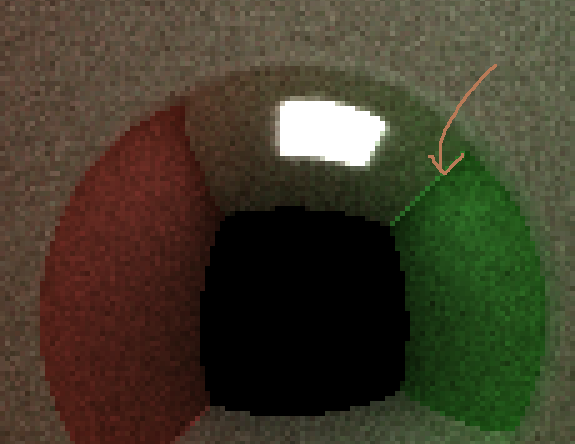
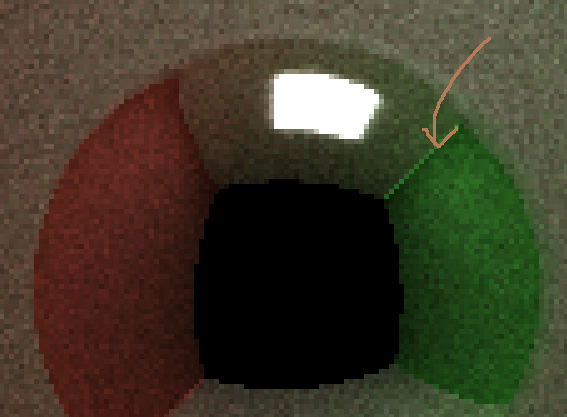
update readme.

diff --git a/README.md b/README.md
@@ -64,6 +64,16 @@ No Light Depth 0                    |  No Light Depth 8               | No Light
 :-------------------------:|:-------------------------:|:-------------------------:
 ![](data/no_light_depth_0.png)| 		![](data/no_light_depth_8.png) 	|![](data/no_light_depth_15.png)
 
+## Anti-Aliasing
+
+As explained before, we use one ray per pixel, and the ray passes through the center of the pixel. This can lead to zagged edges which are clearly evident when we zoom in. We can limit this by jittering the ray through the pixel. Instead of the ray always passing through the center, we randomize the ray location within the pixel. This helps in diminishing the discontinuity when jumping between pixels and therefore renders an overall smoother image. The effects are illustrated below:
+
+
+Aliased                    |  Anti-Aliased               
+:-------------------------:|:-------------------------:
+![](data/aliased.png)| 		![](data/anti_aliased.png)
+
+The jagged edges bordering the green reflection is smoother in the anti-aliased image.
 
 ## Stream Compaction
 
@@ -85,14 +95,29 @@ For smaller image resolutions, the effect of stream compaction is neglible. In f
 
 ## Overall performance analysis
 
-Sorting by material id, though a good idea to limit warp divergence, did not turn out to be a good idea in the present case because our scenes are not big enough to justify the sorting overhead. So I incurred a heavy penalty to sort.
+Sorting by material id, though a good idea to limit warp divergence, did not turn out to be a good idea in the present case because our scenes are not big enough to justify the sorting overhead. The performance was for a screen resolution `700x700`. As discussed above, the image resolution is not big enough for the stream compactiton to do its magic, which is why we get comparable performance to the implementation without one. 
 
 <p align="center">
 <img src="data/per_bar.png">
 </p>
 
+The work-efficient stream compaction which I implemented uses shared memory to perform the scan over varying number of blocks. Though this passed the test cases provided in Project 2 (working upto array sizes of `2^27`), I could not scale it for the path tracer beyond image resolution of `720x720`. The performance is comparable to thrust's implementatiton though a bit slower. I atttribute this to not accounting for bank-conflicts within shared-memory and sloppy use of `cudaMemcpy` to transfer data to-and-fro so as to fit in well with the previously written API.
+
+## Bloopers
+
+While attempting motion blur, if the updates were too quick, or if the transform matrix was not updated properly, I got some funny results
 
 
 
+Motion Blur Rip Through                    |  Motion Blur Shaved               
+:-------------------------:|:-------------------------:
+![](data/blooper_motion_blur.png)| 		![](data/blooper_motion_blur_2.png)
 
 
+
+While calculatitng the refracted ray using Snell's law, if the normal to the surface was not flipped correctly, we get a doughnout. 
+
+
+<p align="center">
+<img src="data/blooper_refract.png" width=500>
+</p>
